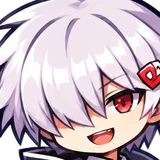
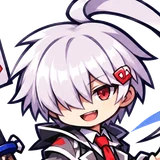
ver1.10.4 vol.2とソウル・フェアリーの顔アイコンを、髪の上から肩まで入るように切り直す
Claude-Session: https://claude.ai/code/session_01KY6yqZ44oFhyyj1x7zcyUw

diff --git a/index.html b/index.html
@@ -1221,7 +1221,7 @@ body.hasTabs .scr.on{position:fixed;left:0;right:0;top:0;bottom:calc(59px + env(
 <script>
 'use strict';
 /* ゲームの版（タイトル画面に「β版 ver ○」と出る）。更新したらここを書きかえる */
-const VERSION='1.10.3';
+const VERSION='1.10.4';
 /* =====================================================================
    データ表（授業ではここを書きかえて、職業・技・敵・セリフを増やす）
    ===================================================================== */
@@ -4700,7 +4700,7 @@ function openReforge(){const ms=ownedAll().filter(m=>m.weapon&&m.weapon.attr);
 
 /* ===================== お知らせ（ver1.0.0 第1章 公開） ===================== */
 function openNews(){$('sheetT').textContent='お知らせ';
- $('sheetB').innerHTML=`<div class="news"><b>ver 1.10.3</b><ul><li>プレゼントコードで受け取れる特別な仲間を、もう一人追加（ガチャには出ません）</li></ul></div><div class="news"><b>ver 1.10.2</b><ul><li>第2章の準備（素材・装備・ガチャ vol.2）を試験中。公開は ver2.0.0 から</li></ul></div><div class="news"><b>ver 1.10.1</b><ul><li>第2章の準備（会話）を試験中。公開は ver2.0.0 から</li></ul></div><div class="news"><b>ver 1.10.0</b><ul><li>中級の工具（溶接機・旋盤・ボール盤／電工ペンチ・はんだごて・タップハンドル）は、塔の中層・上層の資材の箱で必ず見つかるようにした。店では、その層のボスを倒すと高い値段で買える</li><li>工房の上のタブのアイコンをなくし、文字だけにそろえた</li></ul></div><div class="news"><b>ver 1.9.7</b><ul><li>図面ガチャから、まだ出ないはずの図面が出ることがあったのを直した</li></ul></div><div class="news"><b>ver 1.9.6</b><ul><li>メニューの「プレゼントコード」の絵文字をなくした</li></ul></div><div class="news"><b>ver 1.9.5</b><ul><li>メニューを整理：ホームにある「チャット」をメニューから外し、かわりに「お知らせ」を入れた</li></ul></div><div class="news"><b>ver 1.9.4</b><ul><li>プレゼントコードで図面も受け取れるようにした</li></ul></div><div class="news"><b>ver 1.9.3</b><ul><li>特別な仲間の武器のアイコンを新しい絵にした</li></ul></div><div class="news"><b>ver 1.9.2</b><ul><li>新しいバージョンが出ていたら、画面の上に「更新する」ボタンが出るようにした</li></ul></div><div class="news"><b>ver 1.9.1</b><ul><li>プレゼントコードで受け取れる特別な仲間を追加（ガチャには出ません）</li></ul></div><div class="news"><b>ver 1.9.0</b><ul><li>メニューに「プレゼントコード」を追加。運営からもらったコードで、コインや特別な仲間を受け取れる</li></ul></div><div class="news"><b>ver 1.8.3</b><ul><li>ランキングの名前と称号の一覧には、使えるものだけを出すようにした</li></ul></div><div class="news"><b>ver 1.8.2</b><ul><li>ウルフの会話の表情（笑う・真剣・困る）と顔アイコンを新しい絵にした</li></ul></div><div class="news"><b>ver 1.8.1</b><ul><li>噴射安全靴の絵が、第2章の防具の絵になっていたのを直した</li></ul></div><div class="news"><b>ver 1.8.0</b><ul><li>メニューに「バグを報告」を追加。おかしなところを運営に直接送れるようにした</li><li>ランキングのプロフィールに、称号とアイコン（持っているキャラから選べる）を追加。名前の単語はサイコロ版と同じになった</li><li>サイコロ版マイスターの塔から、ID・名前・称号・アイコンと、解放した単語・称号を引き継げるようにした</li></ul></div><div class="news"><b>ver 1.7.7</b><ul><li>ランキングの説明を「無限の塔の攻略階数（何階まで登ったか）」に直した</li></ul></div><div class="news"><b>ver 1.7.6</b><ul><li>ホームに「ランキング」を追加。名前（3つの単語の組み合わせ）を登録できるようにした。ランキングは無限の塔（ver2.0.0）から</li><li>ホームの一番下の到達階の表示をなくした</li></ul></div><div class="news"><b>ver 1.7.5</b><ul><li>第2章の準備：ガチャ vol.2 の仲間10人（技・能力・専用武器・お守り）を試験中。公開は ver2.0.0 から</li></ul></div><div class="news"><b>ver 1.7.4</b><ul><li>新しいお知らせがあるとき、ホームの帯に「NEWS」で出るようにした（読むといつもの NEXT にもどる）</li></ul>
+ $('sheetB').innerHTML=`<div class="news"><b>ver 1.10.4</b><ul><li>一部の仲間の顔アイコンが大きく写っていたのを、ほかの仲間とそろえた</li></ul></div><div class="news"><b>ver 1.10.3</b><ul><li>プレゼントコードで受け取れる特別な仲間を、もう一人追加（ガチャには出ません）</li></ul></div><div class="news"><b>ver 1.10.2</b><ul><li>第2章の準備（素材・装備・ガチャ vol.2）を試験中。公開は ver2.0.0 から</li></ul></div><div class="news"><b>ver 1.10.1</b><ul><li>第2章の準備（会話）を試験中。公開は ver2.0.0 から</li></ul></div><div class="news"><b>ver 1.10.0</b><ul><li>中級の工具（溶接機・旋盤・ボール盤／電工ペンチ・はんだごて・タップハンドル）は、塔の中層・上層の資材の箱で必ず見つかるようにした。店では、その層のボスを倒すと高い値段で買える</li><li>工房の上のタブのアイコンをなくし、文字だけにそろえた</li></ul></div><div class="news"><b>ver 1.9.7</b><ul><li>図面ガチャから、まだ出ないはずの図面が出ることがあったのを直した</li></ul></div><div class="news"><b>ver 1.9.6</b><ul><li>メニューの「プレゼントコード」の絵文字をなくした</li></ul></div><div class="news"><b>ver 1.9.5</b><ul><li>メニューを整理：ホームにある「チャット」をメニューから外し、かわりに「お知らせ」を入れた</li></ul></div><div class="news"><b>ver 1.9.4</b><ul><li>プレゼントコードで図面も受け取れるようにした</li></ul></div><div class="news"><b>ver 1.9.3</b><ul><li>特別な仲間の武器のアイコンを新しい絵にした</li></ul></div><div class="news"><b>ver 1.9.2</b><ul><li>新しいバージョンが出ていたら、画面の上に「更新する」ボタンが出るようにした</li></ul></div><div class="news"><b>ver 1.9.1</b><ul><li>プレゼントコードで受け取れる特別な仲間を追加（ガチャには出ません）</li></ul></div><div class="news"><b>ver 1.9.0</b><ul><li>メニューに「プレゼントコード」を追加。運営からもらったコードで、コインや特別な仲間を受け取れる</li></ul></div><div class="news"><b>ver 1.8.3</b><ul><li>ランキングの名前と称号の一覧には、使えるものだけを出すようにした</li></ul></div><div class="news"><b>ver 1.8.2</b><ul><li>ウルフの会話の表情（笑う・真剣・困る）と顔アイコンを新しい絵にした</li></ul></div><div class="news"><b>ver 1.8.1</b><ul><li>噴射安全靴の絵が、第2章の防具の絵になっていたのを直した</li></ul></div><div class="news"><b>ver 1.8.0</b><ul><li>メニューに「バグを報告」を追加。おかしなところを運営に直接送れるようにした</li><li>ランキングのプロフィールに、称号とアイコン（持っているキャラから選べる）を追加。名前の単語はサイコロ版と同じになった</li><li>サイコロ版マイスターの塔から、ID・名前・称号・アイコンと、解放した単語・称号を引き継げるようにした</li></ul></div><div class="news"><b>ver 1.7.7</b><ul><li>ランキングの説明を「無限の塔の攻略階数（何階まで登ったか）」に直した</li></ul></div><div class="news"><b>ver 1.7.6</b><ul><li>ホームに「ランキング」を追加。名前（3つの単語の組み合わせ）を登録できるようにした。ランキングは無限の塔（ver2.0.0）から</li><li>ホームの一番下の到達階の表示をなくした</li></ul></div><div class="news"><b>ver 1.7.5</b><ul><li>第2章の準備：ガチャ vol.2 の仲間10人（技・能力・専用武器・お守り）を試験中。公開は ver2.0.0 から</li></ul></div><div class="news"><b>ver 1.7.4</b><ul><li>新しいお知らせがあるとき、ホームの帯に「NEWS」で出るようにした（読むといつもの NEXT にもどる）</li></ul>
   <b>ver 1.7.3</b><ul><li>工房「つくる」の専用武器を「専用武器 vol1」→ キャラ の2段にした（第2章の仲間は vol2 にまとまる）</li></ul>
   <b>ver 1.7.2</b><ul><li>換金所で段階4の装備の値段が「NaN」になっていた不具合を直した（B 150コイン）</li><li>ドド先輩の衝撃波とネズミの応急修理のアイコンを、工具の絵から拳とハートの絵に変えた（工具を武器にしない）</li></ul>
   <b>ver 1.7.1</b><ul><li>審判の塔の床を新しい絵に（法廷・書庫・雷雲）。第2章の仲間のアイコン・表情・装備の絵を準備</li></ul>
@@ -5877,7 +5877,7 @@ async function updCheck(){if(updShown||location.protocol==='file:'||Date.now()-u
 setTimeout(updCheck,2500);
 document.addEventListener('visibilitychange',()=>{if(document.visibilityState==='visible')updCheck()});
 
-const BUILD='11/15 16:47';
+const BUILD='11/15 17:32';
 const CHEST_ITEMS2={'3,12':{oil:2,scrap:2},'17,2':{scrap:3,wire:1}};
 function cadBack(){}
 

diff --git a/src/v2_upper.js b/src/v2_upper.js
@@ -358,7 +358,7 @@ function openReforge(){const ms=ownedAll().filter(m=>m.weapon&&m.weapon.attr);
 
 /* ===================== お知らせ（ver1.0.0 第1章 公開） ===================== */
 function openNews(){$('sheetT').textContent='お知らせ';
- $('sheetB').innerHTML=`<div class="news"><b>ver 1.10.3</b><ul><li>プレゼントコードで受け取れる特別な仲間を、もう一人追加（ガチャには出ません）</li></ul></div><div class="news"><b>ver 1.10.2</b><ul><li>第2章の準備（素材・装備・ガチャ vol.2）を試験中。公開は ver2.0.0 から</li></ul></div><div class="news"><b>ver 1.10.1</b><ul><li>第2章の準備（会話）を試験中。公開は ver2.0.0 から</li></ul></div><div class="news"><b>ver 1.10.0</b><ul><li>中級の工具（溶接機・旋盤・ボール盤／電工ペンチ・はんだごて・タップハンドル）は、塔の中層・上層の資材の箱で必ず見つかるようにした。店では、その層のボスを倒すと高い値段で買える</li><li>工房の上のタブのアイコンをなくし、文字だけにそろえた</li></ul></div><div class="news"><b>ver 1.9.7</b><ul><li>図面ガチャから、まだ出ないはずの図面が出ることがあったのを直した</li></ul></div><div class="news"><b>ver 1.9.6</b><ul><li>メニューの「プレゼントコード」の絵文字をなくした</li></ul></div><div class="news"><b>ver 1.9.5</b><ul><li>メニューを整理：ホームにある「チャット」をメニューから外し、かわりに「お知らせ」を入れた</li></ul></div><div class="news"><b>ver 1.9.4</b><ul><li>プレゼントコードで図面も受け取れるようにした</li></ul></div><div class="news"><b>ver 1.9.3</b><ul><li>特別な仲間の武器のアイコンを新しい絵にした</li></ul></div><div class="news"><b>ver 1.9.2</b><ul><li>新しいバージョンが出ていたら、画面の上に「更新する」ボタンが出るようにした</li></ul></div><div class="news"><b>ver 1.9.1</b><ul><li>プレゼントコードで受け取れる特別な仲間を追加（ガチャには出ません）</li></ul></div><div class="news"><b>ver 1.9.0</b><ul><li>メニューに「プレゼントコード」を追加。運営からもらったコードで、コインや特別な仲間を受け取れる</li></ul></div><div class="news"><b>ver 1.8.3</b><ul><li>ランキングの名前と称号の一覧には、使えるものだけを出すようにした</li></ul></div><div class="news"><b>ver 1.8.2</b><ul><li>ウルフの会話の表情（笑う・真剣・困る）と顔アイコンを新しい絵にした</li></ul></div><div class="news"><b>ver 1.8.1</b><ul><li>噴射安全靴の絵が、第2章の防具の絵になっていたのを直した</li></ul></div><div class="news"><b>ver 1.8.0</b><ul><li>メニューに「バグを報告」を追加。おかしなところを運営に直接送れるようにした</li><li>ランキングのプロフィールに、称号とアイコン（持っているキャラから選べる）を追加。名前の単語はサイコロ版と同じになった</li><li>サイコロ版マイスターの塔から、ID・名前・称号・アイコンと、解放した単語・称号を引き継げるようにした</li></ul></div><div class="news"><b>ver 1.7.7</b><ul><li>ランキングの説明を「無限の塔の攻略階数（何階まで登ったか）」に直した</li></ul></div><div class="news"><b>ver 1.7.6</b><ul><li>ホームに「ランキング」を追加。名前（3つの単語の組み合わせ）を登録できるようにした。ランキングは無限の塔（ver2.0.0）から</li><li>ホームの一番下の到達階の表示をなくした</li></ul></div><div class="news"><b>ver 1.7.5</b><ul><li>第2章の準備：ガチャ vol.2 の仲間10人（技・能力・専用武器・お守り）を試験中。公開は ver2.0.0 から</li></ul></div><div class="news"><b>ver 1.7.4</b><ul><li>新しいお知らせがあるとき、ホームの帯に「NEWS」で出るようにした（読むといつもの NEXT にもどる）</li></ul>
+ $('sheetB').innerHTML=`<div class="news"><b>ver 1.10.4</b><ul><li>一部の仲間の顔アイコンが大きく写っていたのを、ほかの仲間とそろえた</li></ul></div><div class="news"><b>ver 1.10.3</b><ul><li>プレゼントコードで受け取れる特別な仲間を、もう一人追加（ガチャには出ません）</li></ul></div><div class="news"><b>ver 1.10.2</b><ul><li>第2章の準備（素材・装備・ガチャ vol.2）を試験中。公開は ver2.0.0 から</li></ul></div><div class="news"><b>ver 1.10.1</b><ul><li>第2章の準備（会話）を試験中。公開は ver2.0.0 から</li></ul></div><div class="news"><b>ver 1.10.0</b><ul><li>中級の工具（溶接機・旋盤・ボール盤／電工ペンチ・はんだごて・タップハンドル）は、塔の中層・上層の資材の箱で必ず見つかるようにした。店では、その層のボスを倒すと高い値段で買える</li><li>工房の上のタブのアイコンをなくし、文字だけにそろえた</li></ul></div><div class="news"><b>ver 1.9.7</b><ul><li>図面ガチャから、まだ出ないはずの図面が出ることがあったのを直した</li></ul></div><div class="news"><b>ver 1.9.6</b><ul><li>メニューの「プレゼントコード」の絵文字をなくした</li></ul></div><div class="news"><b>ver 1.9.5</b><ul><li>メニューを整理：ホームにある「チャット」をメニューから外し、かわりに「お知らせ」を入れた</li></ul></div><div class="news"><b>ver 1.9.4</b><ul><li>プレゼントコードで図面も受け取れるようにした</li></ul></div><div class="news"><b>ver 1.9.3</b><ul><li>特別な仲間の武器のアイコンを新しい絵にした</li></ul></div><div class="news"><b>ver 1.9.2</b><ul><li>新しいバージョンが出ていたら、画面の上に「更新する」ボタンが出るようにした</li></ul></div><div class="news"><b>ver 1.9.1</b><ul><li>プレゼントコードで受け取れる特別な仲間を追加（ガチャには出ません）</li></ul></div><div class="news"><b>ver 1.9.0</b><ul><li>メニューに「プレゼントコード」を追加。運営からもらったコードで、コインや特別な仲間を受け取れる</li></ul></div><div class="news"><b>ver 1.8.3</b><ul><li>ランキングの名前と称号の一覧には、使えるものだけを出すようにした</li></ul></div><div class="news"><b>ver 1.8.2</b><ul><li>ウルフの会話の表情（笑う・真剣・困る）と顔アイコンを新しい絵にした</li></ul></div><div class="news"><b>ver 1.8.1</b><ul><li>噴射安全靴の絵が、第2章の防具の絵になっていたのを直した</li></ul></div><div class="news"><b>ver 1.8.0</b><ul><li>メニューに「バグを報告」を追加。おかしなところを運営に直接送れるようにした</li><li>ランキングのプロフィールに、称号とアイコン（持っているキャラから選べる）を追加。名前の単語はサイコロ版と同じになった</li><li>サイコロ版マイスターの塔から、ID・名前・称号・アイコンと、解放した単語・称号を引き継げるようにした</li></ul></div><div class="news"><b>ver 1.7.7</b><ul><li>ランキングの説明を「無限の塔の攻略階数（何階まで登ったか）」に直した</li></ul></div><div class="news"><b>ver 1.7.6</b><ul><li>ホームに「ランキング」を追加。名前（3つの単語の組み合わせ）を登録できるようにした。ランキングは無限の塔（ver2.0.0）から</li><li>ホームの一番下の到達階の表示をなくした</li></ul></div><div class="news"><b>ver 1.7.5</b><ul><li>第2章の準備：ガチャ vol.2 の仲間10人（技・能力・専用武器・お守り）を試験中。公開は ver2.0.0 から</li></ul></div><div class="news"><b>ver 1.7.4</b><ul><li>新しいお知らせがあるとき、ホームの帯に「NEWS」で出るようにした（読むといつもの NEXT にもどる）</li></ul>
   <b>ver 1.7.3</b><ul><li>工房「つくる」の専用武器を「専用武器 vol1」→ キャラ の2段にした（第2章の仲間は vol2 にまとまる）</li></ul>
   <b>ver 1.7.2</b><ul><li>換金所で段階4の装備の値段が「NaN」になっていた不具合を直した（B 150コイン）</li><li>ドド先輩の衝撃波とネズミの応急修理のアイコンを、工具の絵から拳とハートの絵に変えた（工具を武器にしない）</li></ul>
   <b>ver 1.7.1</b><ul><li>審判の塔の床を新しい絵に（法廷・書庫・雷雲）。第2章の仲間のアイコン・表情・装備の絵を準備</li></ul>

diff --git a/src/build.py b/src/build.py
@@ -12,7 +12,7 @@ def R(a,b,cnt=1):
     n=s.count(a)
     assert n==cnt,(n,a[:80])
     s=s.replace(a,b)
-R("const VERSION='0.1.0'","const VERSION='1.10.3'")
+R("const VERSION='0.1.0'","const VERSION='1.10.4'")
 R("const KEY='mmrpg1',OPT_KEY='mmrpg1_opt',BROKEN_KEY='mmrpg1_broken'","const KEY='mmrpg2',OPT_KEY='mmrpg2_opt',BROKEN_KEY='mmrpg2_broken'")
 R("$('tVer').textContent=`β版 ver ${VERSION}`;$('tNote').textContent=loadNote;","$('tVer').textContent=`ver ${VERSION}`;$('tNote').textContent=loadNote;saveGuardBoot();")
 R('<button class="btn ghost" id="opX">閉じる</button>','<button class="btn" id="opSG">💾 セーブの守り（保存・引っ越し）</button><button class="btn ghost" id="opX">閉じる</button>')
